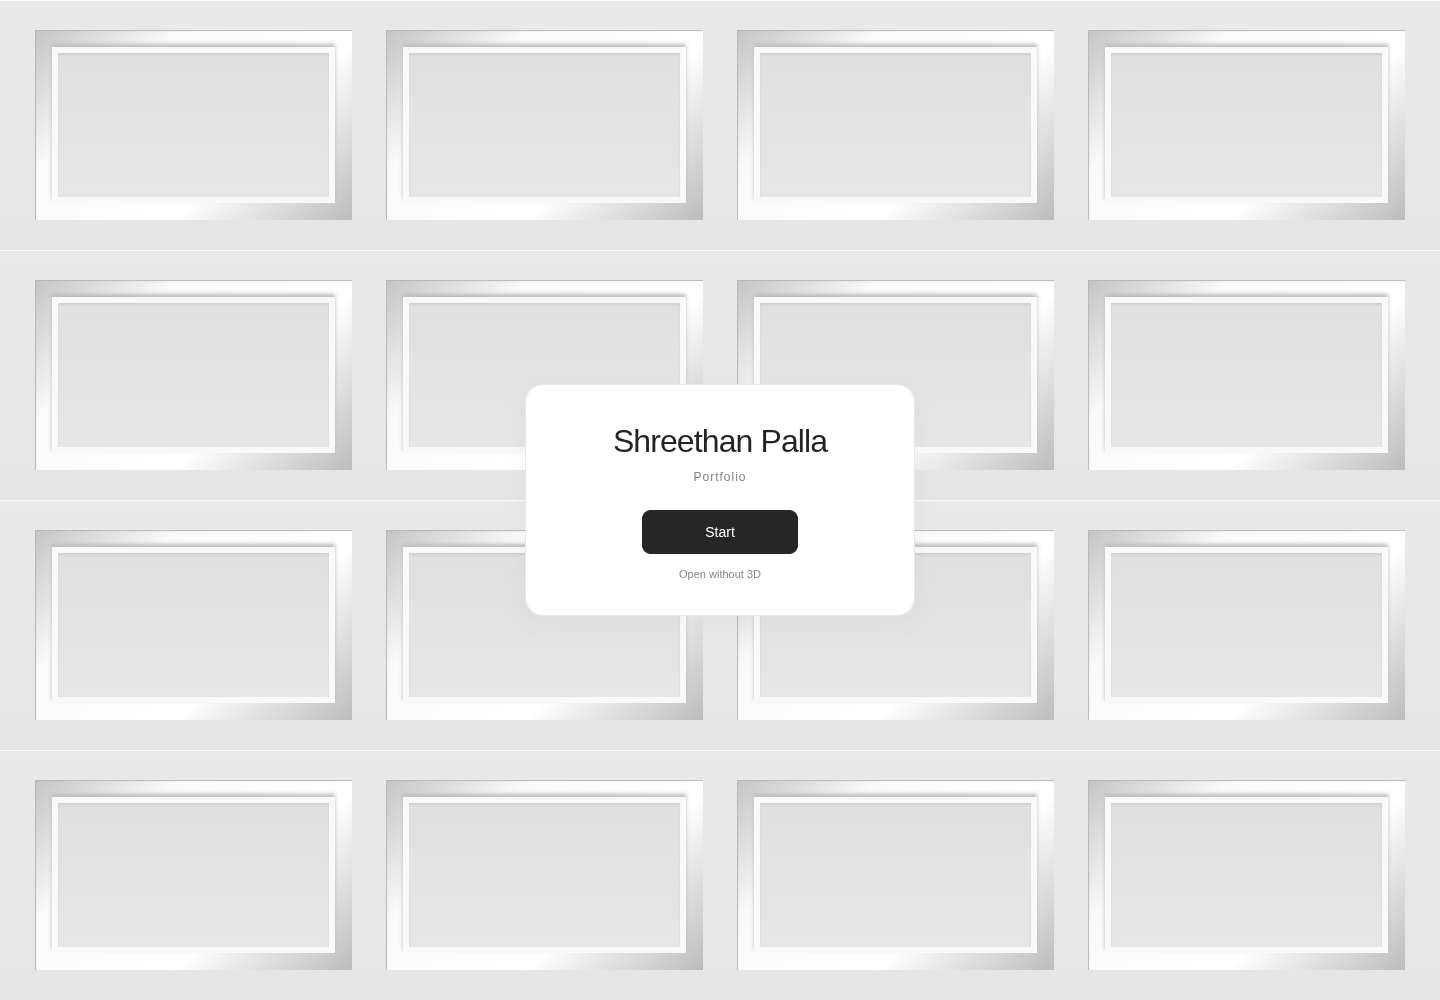
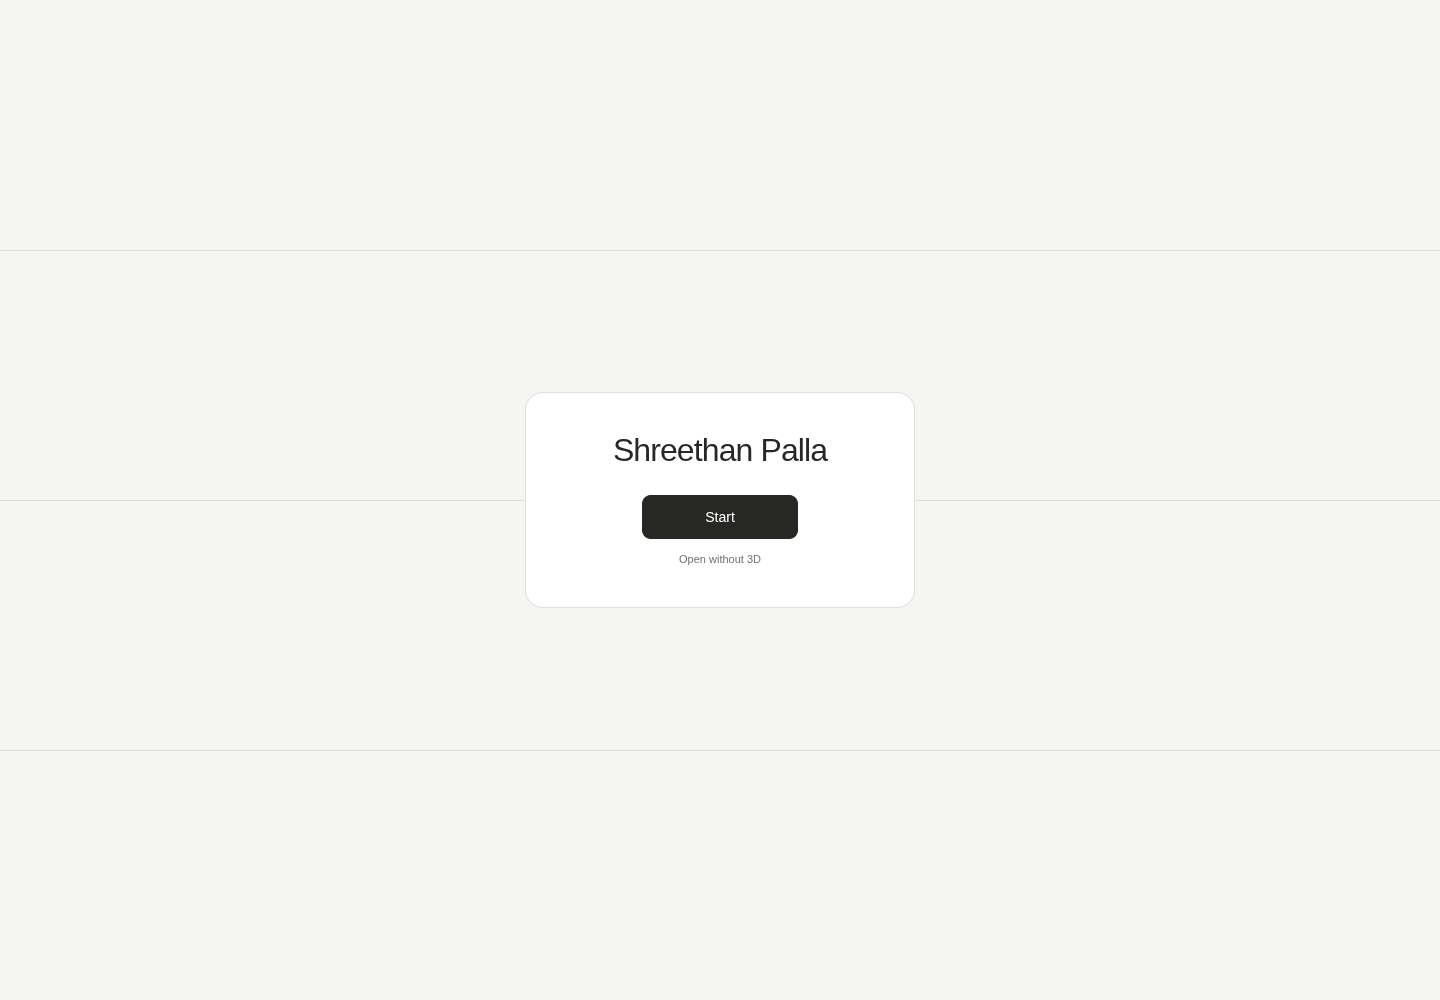
Simplify entrance palette and center desk camera on scene bounds

diff --git a/experience/src/Application/UI/style.css b/experience/src/Application/UI/style.css
@@ -184,24 +184,29 @@ br {
     }
 }
 
-/* Four raised-panel sections follow the overhead garage track. */
+/* Shared neutral palette. Door surfaces stay flat; perspective supplies the motion. */
+:root {
+    --studio-white: #ffffff;
+    --studio-surface: #f5f5f3;
+    --studio-line: #dededb;
+    --studio-ink: #272725;
+    --studio-muted: #71716d;
+}
 .garage-entry{position:fixed;inset:0;z-index:50;overflow:hidden;pointer-events:auto;display:grid;place-items:center}
 .garage-entry--opening{pointer-events:none}
 .garage-door{position:absolute;inset:0;transform-style:preserve-3d;pointer-events:none}
 .garage-panels{position:absolute;inset:0;perspective:140vh;perspective-origin:50% 0%;transform-style:preserve-3d}
-.garage-panel{position:absolute;left:0;width:100%;height:calc(25% + 1px);display:grid;grid-template-columns:repeat(4,minmax(0,1fr));gap:clamp(12px,2.3vw,34px);padding:clamp(18px,3vh,32px) clamp(16px,2.4vw,36px);background:linear-gradient(180deg,#e9e9e8,#e5e5e4);border-bottom:1px solid #b8b8b7;box-shadow:inset 0 1px #fafafa;box-sizing:border-box;backface-visibility:visible;transform-origin:50% 50%;will-change:transform}
-.garage-recess{position:relative;display:block;min-width:0;background:linear-gradient(135deg,#c4c4c3 0%,#fafafa 28%,#fff 65%,#bcbcbc 100%);clip-path:polygon(0 0,100% 0,100% 100%,0 100%);box-shadow:inset 1px 1px 1px #b6b6b5}
-.garage-recess::before{content:"";position:absolute;inset:clamp(8px,1.2vw,17px);background:linear-gradient(180deg,#e0e0df,#e6e6e5);border:clamp(3px,.45vw,6px) solid #f9f9f8;box-shadow:0 -3px 4px #bcbcbc,inset 0 2px 2px #cfcfce;box-sizing:border-box}
-.garage-nameplate{position:relative;z-index:2;width:min(390px,calc(100vw - 40px));min-height:232px;padding:30px 28px 25px;box-sizing:border-box;display:flex;flex-direction:column;align-items:center;justify-content:center;background:#fff;border:1px solid #e7e7e5;border-radius:18px;box-shadow:0 6px 24px #20252208;text-align:center;transition:opacity .2s ease,transform .25s ease}
+.garage-panel{position:absolute;left:0;width:100%;height:calc(25% + 1px);background:var(--studio-surface);border-top:1px solid var(--studio-line);box-sizing:border-box;backface-visibility:visible;transform-origin:50% 50%;will-change:transform}
+.garage-panel:first-child{border-top:0}
+.garage-nameplate{position:relative;z-index:2;width:min(390px,calc(100vw - 40px));min-height:216px;padding:32px 28px;box-sizing:border-box;display:flex;flex-direction:column;align-items:center;justify-content:center;background:var(--studio-white);border:1px solid var(--studio-line);border-radius:18px;text-align:center;transition:opacity .2s ease,transform .25s ease}
 .garage-entry--opening .garage-nameplate{opacity:0;transform:translateY(-6px)}
-.garage-name{font:400 32px/1.2 Arial,Helvetica,sans-serif!important;letter-spacing:-.9px;color:#202522!important;margin:0!important}
-.garage-subtitle{font:12px/1.5 Arial,Helvetica,sans-serif!important;letter-spacing:1px;color:#858585!important;margin:8px 0 24px!important}
-.garage-start{min-width:156px;min-height:44px;border:1px solid #252725;border-radius:9px;background:#252725;padding:11px 28px;font:14px Arial,Helvetica,sans-serif;color:#fff;cursor:pointer;text-align:center;transition:background .15s ease,box-shadow .15s ease}
-.garage-start:hover:not(:disabled){background:#3a3d3a;box-shadow:0 3px 8px #20252212}
+.garage-name{font:400 32px/1.2 Arial,Helvetica,sans-serif!important;letter-spacing:-.9px;color:var(--studio-ink)!important;margin:0 0 26px!important}
+.garage-start{min-width:156px;min-height:44px;border:1px solid var(--studio-ink);border-radius:9px;background:var(--studio-ink);padding:11px 28px;font:14px Arial,Helvetica,sans-serif;color:var(--studio-white);cursor:pointer;text-align:center;transition:opacity .15s ease}
+.garage-start:hover:not(:disabled){opacity:.85}
 .garage-start:disabled{opacity:.4;cursor:wait}
-.garage-direct{font:11px/1.6 Arial,Helvetica,sans-serif;color:#858585;margin-top:12px;text-decoration:none}
+.garage-direct{font:11px/1.6 Arial,Helvetica,sans-serif;color:var(--studio-muted);margin-top:12px;text-decoration:none}
 .garage-direct:hover{text-decoration:underline;text-underline-offset:3px}
 .garage-sr-only{position:absolute!important;width:1px;height:1px;padding:0;margin:-1px;overflow:hidden;clip:rect(0,0,0,0);white-space:nowrap;border:0}
-.garage-nameplate button:focus-visible,.garage-direct:focus-visible{outline:2px solid #626762;outline-offset:4px}
-@media(max-width:600px){.garage-nameplate{min-height:218px;padding:26px 20px 22px}.garage-name{font-size:29px!important}.garage-panel{grid-template-columns:repeat(2,minmax(0,1fr));gap:18px;padding:18px 12px}.garage-recess:nth-child(n+3){display:none}.garage-recess::before{inset:7px;border-width:3px}}
+.garage-nameplate button:focus-visible,.garage-direct:focus-visible{outline:2px solid var(--studio-muted);outline-offset:4px}
+@media(max-width:600px){.garage-nameplate{min-height:206px;padding:28px 20px}.garage-name{font-size:29px!important}}
 @media(prefers-reduced-motion:reduce){.garage-nameplate,.garage-start{transition:none}}

diff --git a/experience/src/Application/Camera/CameraKeyframes.ts b/experience/src/Application/Camera/CameraKeyframes.ts
@@ -2,7 +2,6 @@ import * as THREE from 'three';
 import { CameraKey } from './Camera';
 import Time from '../Utils/Time';
 import Application from '../Application';
-import Mouse from '../Utils/Mouse';
 import Sizes from '../Utils/Sizes';
 
 export class CameraKeyframeInstance {
@@ -72,65 +71,73 @@ export class LoadingKeyframe extends CameraKeyframeInstance {
     update() {}
 }
 
+/** Fit a bounding box into the camera's perspective with consistent screen margins. */
+function frameBounds(bounds: THREE.Box3, direction: THREE.Vector3, sizes: Sizes, fill: number) {
+    const center = bounds.getCenter(new THREE.Vector3());
+    const view = new THREE.PerspectiveCamera(35, sizes.width / sizes.height);
+    view.position.copy(center).add(direction.clone().normalize());
+    view.lookAt(center);
+    const inverse = view.quaternion.clone().invert();
+    const tangent = Math.tan(THREE.MathUtils.degToRad(35 / 2));
+    let distance = 0;
+    for (const x of [bounds.min.x, bounds.max.x]) {
+        for (const y of [bounds.min.y, bounds.max.y]) {
+            for (const z of [bounds.min.z, bounds.max.z]) {
+                const corner = new THREE.Vector3(x, y, z).sub(center).applyQuaternion(inverse);
+                distance = Math.max(distance,
+                    corner.z + Math.abs(corner.x) / (tangent * view.aspect * fill),
+                    corner.z + Math.abs(corner.y) / (tangent * fill));
+            }
+        }
+    }
+    return { center, position: center.clone().addScaledVector(direction.clone().normalize(), distance) };
+}
+
 export class DeskKeyframe extends CameraKeyframeInstance {
-    origin: THREE.Vector3;
-    application: Application;
-    mouse: Mouse;
     sizes: Sizes;
-    targetFoc: THREE.Vector3;
-    targetPos: THREE.Vector3;
+    bounds?: THREE.Box3;
 
     constructor() {
-        const keyframe = keys.desk;
-        super(keyframe);
-        this.application = new Application();
-        this.mouse = this.application.mouse;
-        this.sizes = this.application.sizes;
-        this.origin = new THREE.Vector3().copy(keyframe.position);
-        this.targetFoc = new THREE.Vector3().copy(keyframe.focalPoint);
-        this.targetPos = new THREE.Vector3().copy(keyframe.position);
+        super(keys.desk);
+        this.sizes = new Application().sizes;
+    }
+
+    setBounds(bounds: THREE.Box3) {
+        this.bounds = bounds.clone();
+        this.update();
     }
 
     update() {
-        this.targetFoc.x +=
-            (this.mouse.x - this.sizes.width / 2 - this.targetFoc.x) * 0.05;
-        this.targetFoc.y +=
-            (-(this.mouse.y - this.sizes.height) - this.targetFoc.y) * 0.05;
-
-        this.targetPos.x +=
-            (this.mouse.x - this.sizes.width / 2 - this.targetPos.x) * 0.025;
-        this.targetPos.y +=
-            (-(this.mouse.y - this.sizes.height * 2) - this.targetPos.y) *
-            0.025;
-
-        const aspect = this.sizes.height / this.sizes.width;
-        this.targetPos.z = this.origin.z + aspect * 3000 - 1800;
-
-        this.focalPoint.copy(this.targetFoc);
-        this.position.copy(this.targetPos);
+        if (!this.bounds) return;
+        const frame = frameBounds(this.bounds, new THREE.Vector3(-.35, .7, 1), this.sizes, .74);
+        this.position.copy(frame.position);
+        this.focalPoint.copy(frame.center);
     }
 }
 
 export class IdleKeyframe extends CameraKeyframeInstance {
     time: Time;
-    origin: THREE.Vector3;
+    sizes: Sizes;
+    bounds?: THREE.Box3;
 
     constructor() {
-        const keyframe = keys.idle;
-        super(keyframe);
-        this.origin = new THREE.Vector3().copy(keyframe.position);
+        super(keys.idle);
         this.time = new Time();
+        this.sizes = new Application().sizes;
+    }
+
+    setBounds(bounds: THREE.Box3) {
+        this.bounds = bounds.clone();
+        this.update();
     }
 
     update() {
-        if (window.matchMedia('(prefers-reduced-motion: reduce)').matches) return;
-        this.position.x =
-            Math.sin((this.time.elapsed + 19000) * 0.00008) * this.origin.x;
-        this.position.y =
-            Math.sin((this.time.elapsed + 1000) * 0.000004) * 4000 +
-            this.origin.y -
-            3000;
-        this.position.z = this.position.z;
+        if (!this.bounds) return;
+        const reduced = window.matchMedia('(prefers-reduced-motion: reduce)').matches;
+        const orbit = reduced ? -1 : -Math.sin((this.time.elapsed + 19000) * .00008);
+        const frame = frameBounds(this.bounds, new THREE.Vector3(orbit, .65, 1), this.sizes, .30);
+        this.position.copy(frame.position);
+        this.focalPoint.copy(frame.center);
     }
 }
 

diff --git a/experience/src/Application/UI/components/InfoOverlay.tsx b/experience/src/Application/UI/components/InfoOverlay.tsx
@@ -7,13 +7,11 @@ interface InfoOverlayProps {
 }
 
 const NAME_TEXT = 'Shreethan Palla';
-const TITLE_TEXT = 'Builder · Robotics · Software';
 const MULTIPLIER = 1;
 
 const InfoOverlay: React.FC<InfoOverlayProps> = ({ visible }) => {
     const visRef = useRef(visible);
     const [nameText, setNameText] = useState('');
-    const [titleText, setTitleText] = useState('');
     const [time, setTime] = useState(new Date().toLocaleTimeString());
     const timeRef = useRef(time);
     const [timeText, setTimeText] = useState('');
@@ -59,18 +57,16 @@ const InfoOverlay: React.FC<InfoOverlayProps> = ({ visible }) => {
         if (visible && nameText == '') {
             setTimeout(() => {
                 typeText(0, '', NAME_TEXT, setNameText, () => {
-                    typeText(0, '', TITLE_TEXT, setTitleText, () => {
-                        typeText(
-                            0,
-                            '',
-                            time,
-                            setTimeText,
-                            () => {
-                                setTextDone(true);
-                            },
-                            timeRef
-                        );
-                    });
+                    typeText(
+                        0,
+                        '',
+                        time,
+                        setTimeText,
+                        () => {
+                            setTextDone(true);
+                        },
+                        timeRef
+                    );
                 });
             }, 400);
         }
@@ -111,11 +107,6 @@ const InfoOverlay: React.FC<InfoOverlayProps> = ({ visible }) => {
                     <p>{nameText}</p>
                 </div>
             )}
-            {titleText !== '' && (
-                <div style={styles.container}>
-                    <p>{titleText}</p>
-                </div>
-            )}
             {timeText !== '' && (
                 <div style={styles.lastRow}>
                     <div
@@ -145,7 +136,7 @@ const InfoOverlay: React.FC<InfoOverlayProps> = ({ visible }) => {
 
 const styles: StyleSheetCSS = {
     container: {
-        background: 'black',
+        background: 'var(--studio-ink)',
         padding: 4,
         paddingLeft: 16,
         paddingRight: 16,

diff --git a/experience/src/Application/UI/components/LoadingScreen.tsx b/experience/src/Application/UI/components/LoadingScreen.tsx
@@ -86,15 +86,12 @@ const LoadingScreen: React.FC = () => {
             <div className="garage-door" aria-hidden="true">
                 <div className="garage-panels">
                     {Array.from({ length: 4 }, (_, i) => (
-                        <div key={i} ref={node => { panels.current[i] = node; }} style={{ top: `${i * 25}%` }} className="garage-panel">
-                            {Array.from({ length: 4 }, (_, j) => <span key={j} className="garage-recess" />)}
-                        </div>
+                        <div key={i} ref={node => { panels.current[i] = node; }} style={{ top: `${i * 25}%` }} className="garage-panel" />
                     ))}
                 </div>
             </div>
             <section className="garage-nameplate" aria-label="Shreethan Palla portfolio">
                 <h1 className="garage-name">Shreethan Palla</h1>
-                <p className="garage-subtitle">Portfolio</p>
                 <button className="garage-start" onClick={start} disabled={!ready}>Start</button>
                 <p className="garage-sr-only" role="status">{failed ? 'Unable to load the workshop.' : ready ? 'Ready when you are.' : 'Loading workshop.'}</p>
                 <a className="garage-direct" href="/desktop">Open without 3D</a>

diff --git a/experience/src/Application/World/World.ts b/experience/src/Application/World/World.ts
@@ -1,4 +1,6 @@
+import * as THREE from 'three';
 import Application from '../Application';
+import { DeskKeyframe, IdleKeyframe } from '../Camera/CameraKeyframes';
 import Resources from '../Utils/Resources';
 import ComputerSetup from './Computer';
 import MonitorScreen from './MonitorScreen';
@@ -30,6 +32,12 @@ export default class World {
         this.resources.on('ready', () => {
             // Setup
             this.environment = new Environment();
+            const bounds = new THREE.Box3();
+            this.environment.bakedModel.getModel().children.forEach(part => {
+                if (part.name !== 'Background') bounds.union(new THREE.Box3().setFromObject(part));
+            });
+            (this.application.camera.keyframes.desk as DeskKeyframe).setBounds(bounds);
+            (this.application.camera.keyframes.idle as IdleKeyframe).setBounds(bounds);
             // Empty desk checkpoint: restore props one at a time after review.
             this.audioManager = new AudioManager();
             // const hb = new Hitboxes();

diff --git a/experience/src/Application/UI/components/HelpPrompt.tsx b/experience/src/Application/UI/components/HelpPrompt.tsx
@@ -81,7 +81,7 @@ const styles: StyleSheetCSS = {
     container: {
         position: 'absolute',
         bottom: 64,
-        background: 'black',
+        background: 'var(--studio-ink)',
         padding: 4,
         paddingLeft: 16,
         paddingRight: 16,

diff --git a/experience/src/Application/UI/components/FreeCamToggle.tsx b/experience/src/Application/UI/components/FreeCamToggle.tsx
@@ -144,7 +144,7 @@ const indicatorVars = {
 
 const styles: StyleSheetCSS = {
     container: {
-        background: 'black',
+        background: 'var(--studio-ink)',
         // padding: 4,
         paddingLeft: 8,
         paddingRight: 8,

diff --git a/experience/src/Application/UI/components/MuteToggle.tsx b/experience/src/Application/UI/components/MuteToggle.tsx
@@ -84,7 +84,7 @@ const iconVars = {
 
 const styles: StyleSheetCSS = {
     container: {
-        background: 'black',
+        background: 'var(--studio-ink)',
         // padding: 4,
         // paddingLeft: 8,
         // paddingRight: 8,

diff --git a/docs/FUNDAMENTALS.md b/docs/FUNDAMENTALS.md
@@ -103,7 +103,7 @@ A deployment-specific Vercel URL identifies one build and stays on that version.
 Read `experience/src/Application/UI/components/LoadingScreen.tsx` alongside `experience/src/Application/UI/style.css`.
 
 1. Asset-loading events update progress. Start is disabled until the listed assets finish loading.
-2. The closed door consists of four HTML sections; each has four decorative recessed panels. CSS supplies their white surfaces, bevel-like shading, seams and perspective. On a narrow screen each section displays two panels.
+2. The closed door consists of four HTML sections. CSS supplies flat off-white surfaces, thin seams and perspective. Shared CSS variables define the entrance and control palette; there are no gradients or decorative shadows.
 3. Start changes state from `closed` to `opening` and dispatches `loadingScreenDone`.
 4. An animation loop uses `requestAnimationFrame`, the browser's callback for updating before a display frame. Elapsed time becomes progress from zero to one. Easing makes motion accelerate and settle smoothly.
 5. Each section's ends follow a vertical path that curves overhead. Its center position and tilt are calculated from those endpoints. CSS `translate3d` and `rotateX` display that movement.
@@ -132,7 +132,7 @@ We rebuilt the bare desk and its floor shadows using `experience/tools/build-emp
 
 A baked shadow does not automatically update when an object moves. Future moving robot parts should retain their own materials and use suitable lighting/shadows. Do not send colored project CAD through `BakedModel`, because that helper replaces its materials with the room's shared texture.
 
-The camera is driven by positions and points it looks at, defined in `CameraKeyframes.ts`. Tweens interpolate between those values over time. The room currently uses unusually large coordinates: its model geometry is scaled by 900. New imports need explicit scale and placement; raw meter-scale CAD can otherwise seem invisible.
+The camera is driven by positions and points it looks at, defined in `CameraKeyframes.ts`. The current overview and desk close-up derive their target from the bounding box of the tabletop and legs, excluding the huge backdrop. The center is the midpoint of the minimum and maximum coordinates. Camera distance is calculated from the box corners, field of view, and viewport aspect ratio to leave consistent margins. Close-up no longer follows cursor coordinates. Tweens interpolate between views over time. The room currently uses unusually large coordinates: its model geometry is scaled by 900. New imports need explicit scale and placement; raw meter-scale CAD can otherwise seem invisible.
 
 ## 7. Where the computer interface fits later
 
@@ -222,10 +222,10 @@ In a second terminal, use `npm run watch:experience` when editing the room/entra
 
 Try one experiment at a time:
 
-1. Change the entrance subtitle in `LoadingScreen.tsx`. Predict what should change, rebuild the renderer, and verify it.
+1. Temporarily change the entrance name in `LoadingScreen.tsx`. Predict what should change, rebuild the renderer, and verify it.
 2. Change the card radius in the UI stylesheet. This changes CSS appearance without changing 3D geometry.
 3. Change the tabletop tint in `World/Environment.ts`. Explain why it changes a mesh material rather than the backdrop.
-4. Change an idle camera position in `CameraKeyframes.ts`. Reset/reload and compare the framing.
+4. Change the close-up fill value in `CameraKeyframes.ts` from `.74` to `.65`. Reload, click, and explain why the smaller fill value leaves larger margins.
 5. Change an offset multiplier in `assembly-scene.tsx`. Scroll both directions and explain why the model returns to its initial pose.
 6. Import your three-part practice CAD before attempting the full robot.
 

diff --git a/experience/UPSTREAM.md b/experience/UPSTREAM.md
@@ -11,7 +11,7 @@ The original GLB geometry and baked textures are included under the repository's
 Kept: Three.js renderer, original authored computer/environment/decor models, baked textures, screen effects, camera states, and asset-loading events.
 Changed: garage-door entrance replacing the original BIOS screen; name/metadata; same-origin /desktop instead of Henry's OS; origin/source validation on iframe messages; build output path; HTML-loader asset handling; pinned compatible Node types. Removed Henry's analytics, contact-email server, personal biography metadata, and unused media. His separate inner OS repository was not copied.
 
-The current checkpoint displays a bare tabletop and four legs, using the original desk dimensions and backdrop with regenerated shadows. The computer, decor, chair and monitor are disabled; their original assets remain available. The classic recessed-panel garage entrance is a screen-space HTML/CSS door using the existing camera event. Modern PC, paper interaction and custom project CAD remain future changes. The empty environment is reproducible with tools/build-empty-workbench.py and Blender; committed generated assets are used at runtime.
+The current checkpoint displays a bare tabletop and four legs, using the original desk dimensions and backdrop with regenerated shadows. The computer, decor, chair and monitor are disabled; their original assets remain available. The flat sectional garage entrance is a screen-space HTML/CSS door using the existing camera event. Modern PC, paper interaction and custom project CAD remain future changes. The empty environment is reproducible with tools/build-empty-workbench.py and Blender; committed generated assets are used at runtime.
 
 Install: npm ci --prefix experience --cache /workspace/.npm
 Build: npm run build:experience from repository root.

diff --git a/docs/DECISIONS.md b/docs/DECISIONS.md
@@ -25,6 +25,10 @@ No simultaneous redesign of all six steps. No claims of real robot accuracy with
 
 ## Garage entrance implemented
 
-A white sectional door has four rows of recessed panels, following the supplied reference. A rounded rectangular card shows Shreethan Palla, Portfolio, Start, and Open without 3D. Each row follows the curved overhead track during the 2.4-second reveal. Reduced-motion skips the opening animation. The desktop route remains available during loading or failure.
+A flat white/off-white sectional door uses four sections with thin seams and no decorative recesses, gradients or shadows. A rounded rectangular card shows only Shreethan Palla, Start and Open without 3D. Each section follows the curved overhead track during the 2.4-second reveal. The room overlay keeps the name and live local clock, without a role subtitle. Reduced-motion skips the opening animation.
+
+The entrance and room controls share CSS color variables: white `#ffffff`, off-white `#f5f5f3`, border `#dededb`, charcoal `#272725`, muted text `#71716d`. Existing desk materials and baked room lighting remain intact.
+
+Camera framing uses the bounds of the tabletop and legs, excluding the backdrop. Both overview and close-up look at their center; close-up no longer depends on mouse position. Fit distance accounts for field of view and viewport aspect ratio so the desk stays visible on narrow screens.
 
 The empty desk uses a generated GLB and baked atlas. Its backdrop samples the original texture; only the region containing obsolete prop shadows is cleared and shaded for the bare desk. Regenerate with `blender -b --factory-startup -t 8 --python experience/tools/build-empty-workbench.py`. Blender is an offline authoring tool and is not needed by Vercel.

diff --git a/docs/VALIDATION.md b/docs/VALIDATION.md
@@ -51,3 +51,9 @@ Production build passed. Chromium checks passed: Start disabled while an intenti
 Production build and final renderer build passed. Chromium checked the wider 390×232 entrance card, four individually tilting door sections with sixteen recessed panels, completed reveal, absence of the old monitor overlay, mobile layout/direct desktop link, and reduced-motion entry. No page errors or failed resource responses occurred in the final run. The exported scene contains exactly the original backdrop, one tabletop and four legs. Visual review confirmed the bare charcoal desk and soft floor shadows.
 
 ![Bare four-legged desk](images/empty-desk.png)
+
+## Flat entrance and centered camera
+
+Production build, final renderer build, formatting and whitespace checks passed. Final Chromium run verified flat door surfaces without background images or box shadows, independent sectional motion, completed reveal, name and ticking clock without a role subtitle, narrow entrance/desk views, and reduced-motion entry. It reported no page errors or failed asset responses. Camera projection checks against the actual keyframe classes passed at 1440×1000, 390×844 and 1920×1080; all desk bounds remain visible with horizontal centers within 1% of viewport width. Visual review of desktop and phone screenshots confirmed centered framing.
+
+![Centered close-up with name and clock](images/desk-centered.png)
